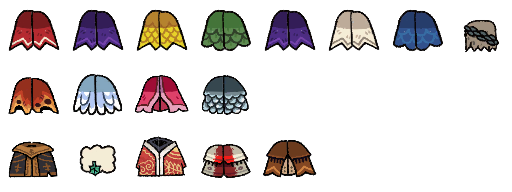
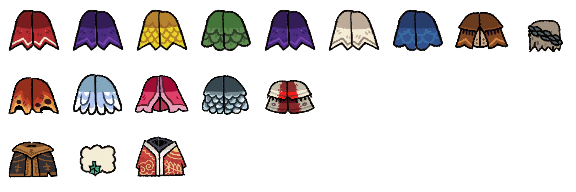
fixed player fleece and bell categories

Changed region(s): [[0.0, 0.0312, 1.0, 0.2812], [0.0, 0.6875, 0.625, 0.9375], [0.0, 0.375, 0.5625, 0.625]]

diff --git a/src/data/types/characters/Player.ts b/src/data/types/characters/Player.ts
@@ -24,7 +24,7 @@ export interface PlayerCrownData {
     variant: string;
 }
 
-export const PLAYER_FLEECE_IDS: (keyof typeof playerData.fleeces)[] = ["Lamb", "Goat", "Golden", "Glass", "Diseased", "Fates", "Fragile", "Cursed", "Berserker", "Fervor", "Hobbled", "Heretic", "Natural", "Silk", "God", "Cowboy", "Rags"] as const;
+export const PLAYER_FLEECE_IDS: (keyof typeof playerData.fleeces)[] = ["Lamb", "Goat", "Golden", "Glass", "Diseased", "Fates", "Fragile", "Cowboy", "Cursed", "Berserker", "Fervor", "Hobbled", "God", "Heretic", "Natural", "Silk", "Rags"] as const;
 export type PlayerFleeceId = typeof PLAYER_FLEECE_IDS[number];
 
 export interface PlayerFleeceData {
@@ -37,16 +37,17 @@ export interface PlayerFleeceData {
 export enum PlayerFleeceCategory {
     General,
     PostGame,
+
     DLC
 }
 
-export const PLAYER_FLEECE_CATEGORIES = ["General", "Post Game", "DLC"] as const;
+export const PLAYER_FLEECE_CATEGORIES = ["General", "Post-Game", "DLC"] as const;
 export const PLAYER_FLEECE_CATEGORY_LENGTH: number = Object.keys(PlayerFleeceCategory).length / 2;
 
 export type PlayerFleeceCategoryName = typeof PLAYER_FLEECE_CATEGORIES[number];
 export const playerFleeceIdsByCategory = Object.fromEntries(PLAYER_FLEECE_CATEGORIES.map<[PlayerFleeceCategoryName, PlayerFleeceId[]]>((name, i) => [name, PLAYER_FLEECE_IDS.map<[PlayerFleeceId, PlayerFleeceCategory]>((id) => [id, playerData.fleeces[id].category]).filter(([_, category]) => category === i).map(([id]) => id)])) as Record<PlayerFleeceCategoryName, PlayerFleeceId[]>;
 
-export const PLAYER_BELL_IDS: (keyof typeof playerData.bells)[] = ["Lamb", "Goat", "Golden", "Glass", "Diseased", "Fates", "Fragile", "Cursed", "Berserker", "Fervor", "Hobbled", "God", "Cowboy"] as const;
+export const PLAYER_BELL_IDS: (keyof typeof playerData.bells)[] = ["Lamb", "Goat", "Golden", "Glass", "Diseased", "Fates", "Fragile", "Cowboy", "Cursed", "Berserker", "Fervor", "Hobbled", "God"] as const;
 export type PlayerBellId = typeof PLAYER_BELL_IDS[number];
 
 export interface PlayerBellData {
@@ -58,11 +59,10 @@ export interface PlayerBellData {
 
 export enum PlayerBellCategory {
     General,
-    PostGame,
-    DLC
+    PostGame
 }
 
-export const PLAYER_BELL_CATEGORIES = ["General", "Post Game", "DLC"] as const;
+export const PLAYER_BELL_CATEGORIES = ["General", "Post-Game"] as const;
 export const PLAYER_BELL_CATEGORY_LENGTH: number = Object.keys(PlayerBellCategory).length / 2;
 
 export type PlayerBellCategoryName = typeof PLAYER_BELL_CATEGORIES[number];
